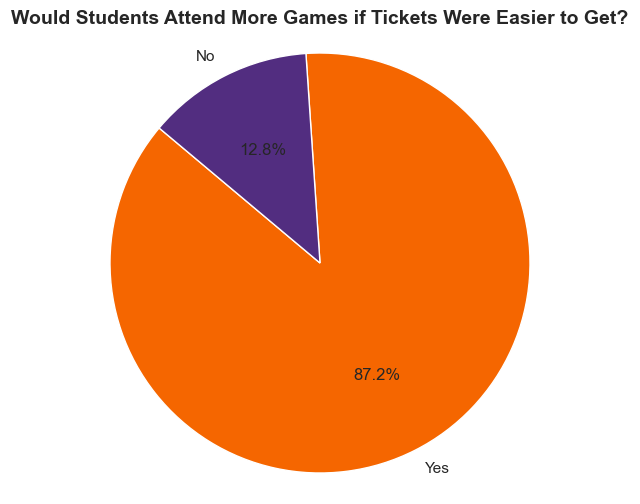
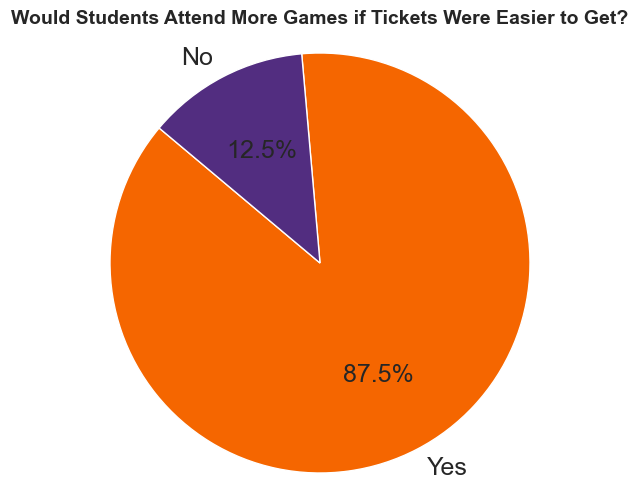
feat: refactored visual 1 and added a 3rd visual

diff --git a/visuals.py b/visuals.py
@@ -1,6 +1,7 @@
 import pandas as pd
 import matplotlib.pyplot as plt
 import seaborn as sns
+import re
 
 # Load the dataset using openpyxl for the Excel file
 file_path = "Clemson Football Tickets  (Responses).xlsx"
@@ -11,58 +12,113 @@ df.columns = df.columns.str.strip()
 
 # Set the visual style for the plots
 sns.set_theme(style="whitegrid")
-# Define Clemson colors
 clemson_colors = ['#F56600', '#522D80'] # Orange and Regalia
 
 # ==========================================
-# Visual 1: Participation in the Ticket Lottery
+# Visual 1: Disparity in Student Attendance 
+# (Supports Problem & "Guaranteed Baseline Access")
+# ==========================================
+plt.figure(figsize=(9, 6))
+attendance_col = "How many Clemson Football games do you regularly attend in a single season?"
+
+# Function to extract numbers from the free-text responses
+def clean_attendance(val):
+    val = str(val).lower()
+    if 'all' in val or 'every' in val:
+        return 7 # Assuming ~7 home games in a season
+    nums = re.findall(r'\d+', val)
+    if nums:
+        return int(nums[0])
+    return None
+
+df['Cleaned_Attendance'] = df[attendance_col].apply(clean_attendance)
+
+# Drop missing/unparsable values just for the plot
+plot_data_v1 = df.dropna(subset=['Cleaned_Attendance'])
+
+sns.countplot(data=plot_data_v1, x='Cleaned_Attendance', color='#F56600')
+plt.title("Current Disparity in Student Game Attendance\n(Highlights the Need for Guaranteed Baseline Access)", fontsize=14, fontweight='bold')
+plt.xlabel("Number of Games Attended in a Season", fontsize=12)
+plt.ylabel("Number of Students", fontsize=12)
+
+plt.savefig("attendance_disparity_bar.png", bbox_inches='tight')
+print("Visual 1 saved as 'attendance_disparity_bar.png'")
+plt.close()
+
+# ==========================================
+# Visual 2: Impact of Easier Tickets on Attendance (Pie Chart)
+# (Supports Section 5.1 Call to Action)
 # ==========================================
 plt.figure(figsize=(8, 6))
-
-# Define the exact column name from your Excel file
-lottery_col = "Do you participate in the Clemson Football Ticket Lottery?"
-
-# Clean and count the responses (ignoring case and whitespace)
-participation_counts = df[lottery_col].astype(str).str.strip().str.lower().value_counts()
-
-# Create a pie chart
-plt.pie(
-    participation_counts, 
-    labels=participation_counts.index.str.capitalize(), 
-    autopct='%1.1f%%', 
-    startangle=140, 
-    colors=clemson_colors 
-)
-plt.title("Participation in the Clemson Football Ticket Lottery", fontsize=14, fontweight='bold')
-plt.axis('equal') # Equal aspect ratio ensures that pie is drawn as a circle.
-
-# Save the first visual
-plt.savefig("lottery_participation_pie.png", bbox_inches='tight')
-print("Visual 1 saved as 'lottery_participation_pie.png'")
-
-# ==========================================
-# Visual 2: Impact of Easier Tickets on Attendance
-# ==========================================
-plt.figure(figsize=(8, 6))
-
-# Define the exact column name from your Excel file
 easier_tickets_col = "If tickets were easier to get, would you attend more games?"
 
-# Clean and count the responses (ignoring case and whitespace)
+# Count the Yes/No responses
 attendance_impact_counts = df[easier_tickets_col].astype(str).str.strip().str.lower().value_counts()
 
-# Create a pie chart
 plt.pie(
     attendance_impact_counts, 
     labels=attendance_impact_counts.index.str.capitalize(), 
     autopct='%1.1f%%', 
     startangle=140, 
-    colors=clemson_colors
+    colors=clemson_colors,
+    textprops={'fontsize': 18}
 )
 
 plt.title("Would Students Attend More Games if Tickets Were Easier to Get?", fontsize=14, fontweight='bold')
-plt.axis('equal') # Equal aspect ratio ensures that pie is drawn as a circle.
+plt.axis('equal') 
 
-# Save the second visual
 plt.savefig("easier_tickets_impact_pie.png", bbox_inches='tight')
 print("Visual 2 saved as 'easier_tickets_impact_pie.png'")
+plt.close()
+
+# ==========================================
+# Visual 3: Sentiment on Ticket Resellers (Donut Chart)
+# (Supports "Market Regulation" Criteria)
+# ==========================================
+plt.figure(figsize=(8, 8)) # Back to a square since the legend is inside
+
+# Hardcoded data based on manual analysis
+labels = [
+    'Negative: Overpricing (25)', 
+    'Negative: Other (4)', 
+    'Neutral / Positive (11)'
+]
+sizes = [25, 4, 11]
+
+# Colors: Clemson Regalia (Purple) for the main negative, a muted purple for other negative, Orange for Neutral/Positive
+colors = ['#522D80', '#8573A1', '#F56600']
+
+# Create the pie chart base
+wedges, texts, autotexts = plt.pie(
+    sizes, 
+    autopct='%1.1f%%', 
+    startangle=140, 
+    colors=colors,
+    pctdistance=0.85, # Pushed out slightly to make room for the inner legend
+    wedgeprops={'edgecolor': 'white', 'linewidth': 2},
+    textprops={'fontsize': 20, 'fontweight': 'bold', 'color': 'white'}
+)
+
+# Draw a slightly larger white circle in the center to fit the legend
+centre_circle = plt.Circle((0, 0), 0.65, fc='white')
+fig = plt.gcf()
+fig.gca().add_artist(centre_circle)
+
+# Add the legend perfectly inside the donut hole
+plt.legend(
+    wedges, 
+    labels, 
+    title="Sentiments", 
+    loc="center", # Centers the legend in the hole
+    fontsize=18,
+    title_fontsize=20,
+    frameon=False # Removes the box around the legend for a clean look
+)
+
+plt.title("Student Sentiment Toward Ticket Resellers", fontsize=24, fontweight='bold')
+plt.axis('equal')
+
+plt.tight_layout() 
+plt.savefig("reseller_sentiment_donut.png", bbox_inches='tight')
+print("Visual 3 saved as 'reseller_sentiment_donut.png'")
+plt.close()
